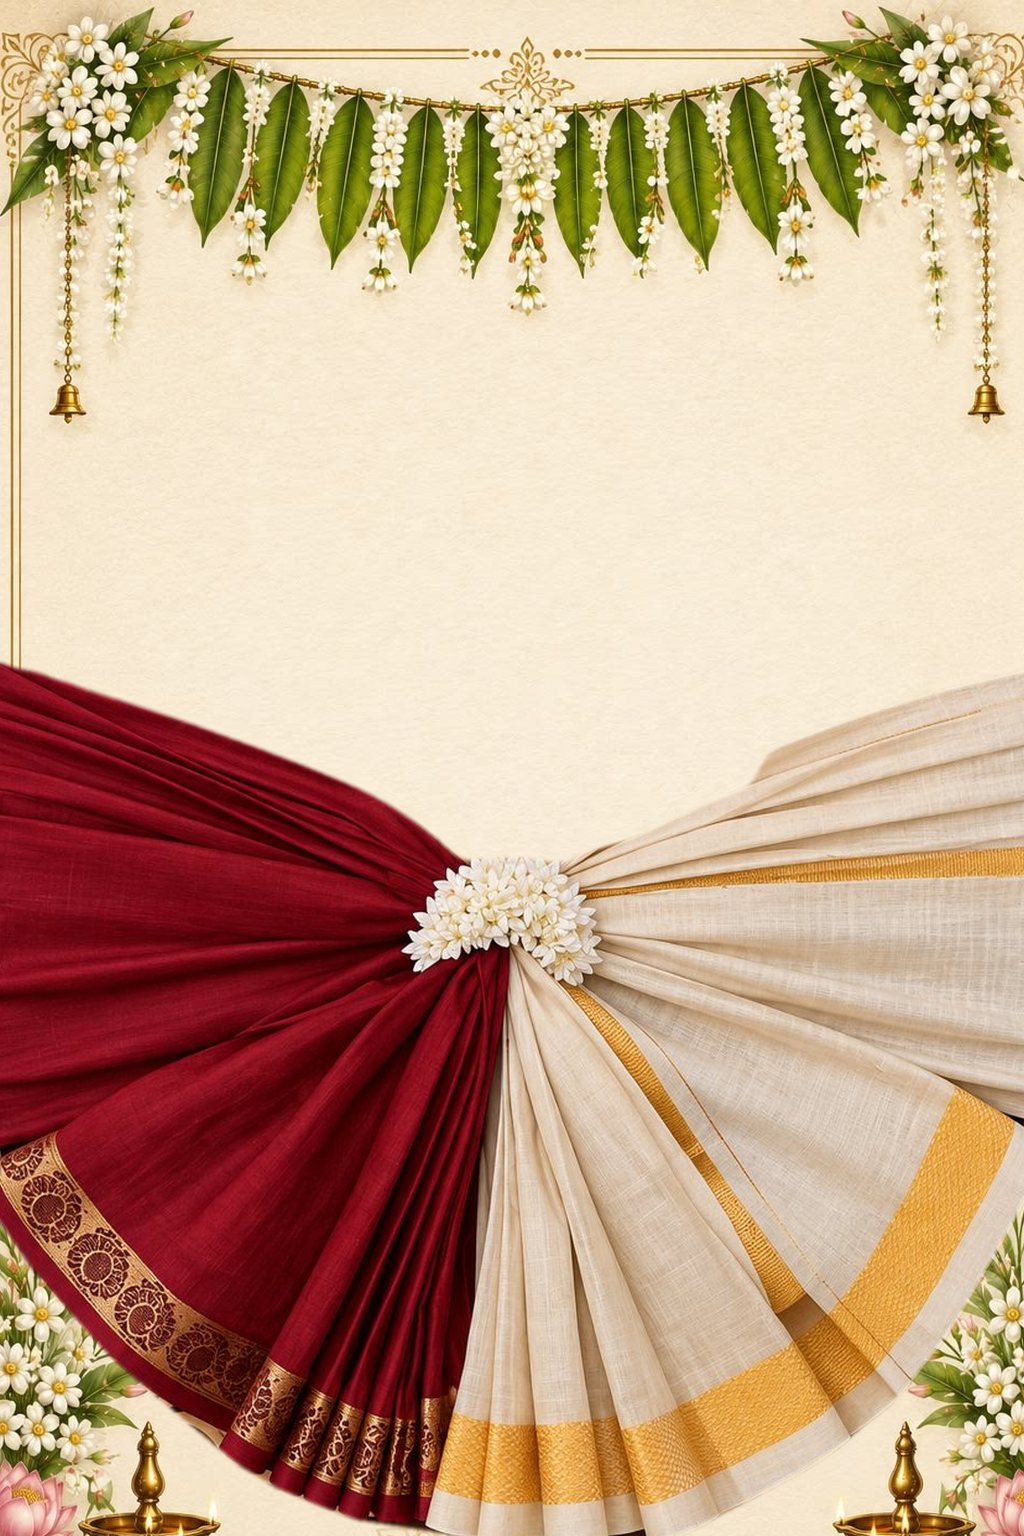
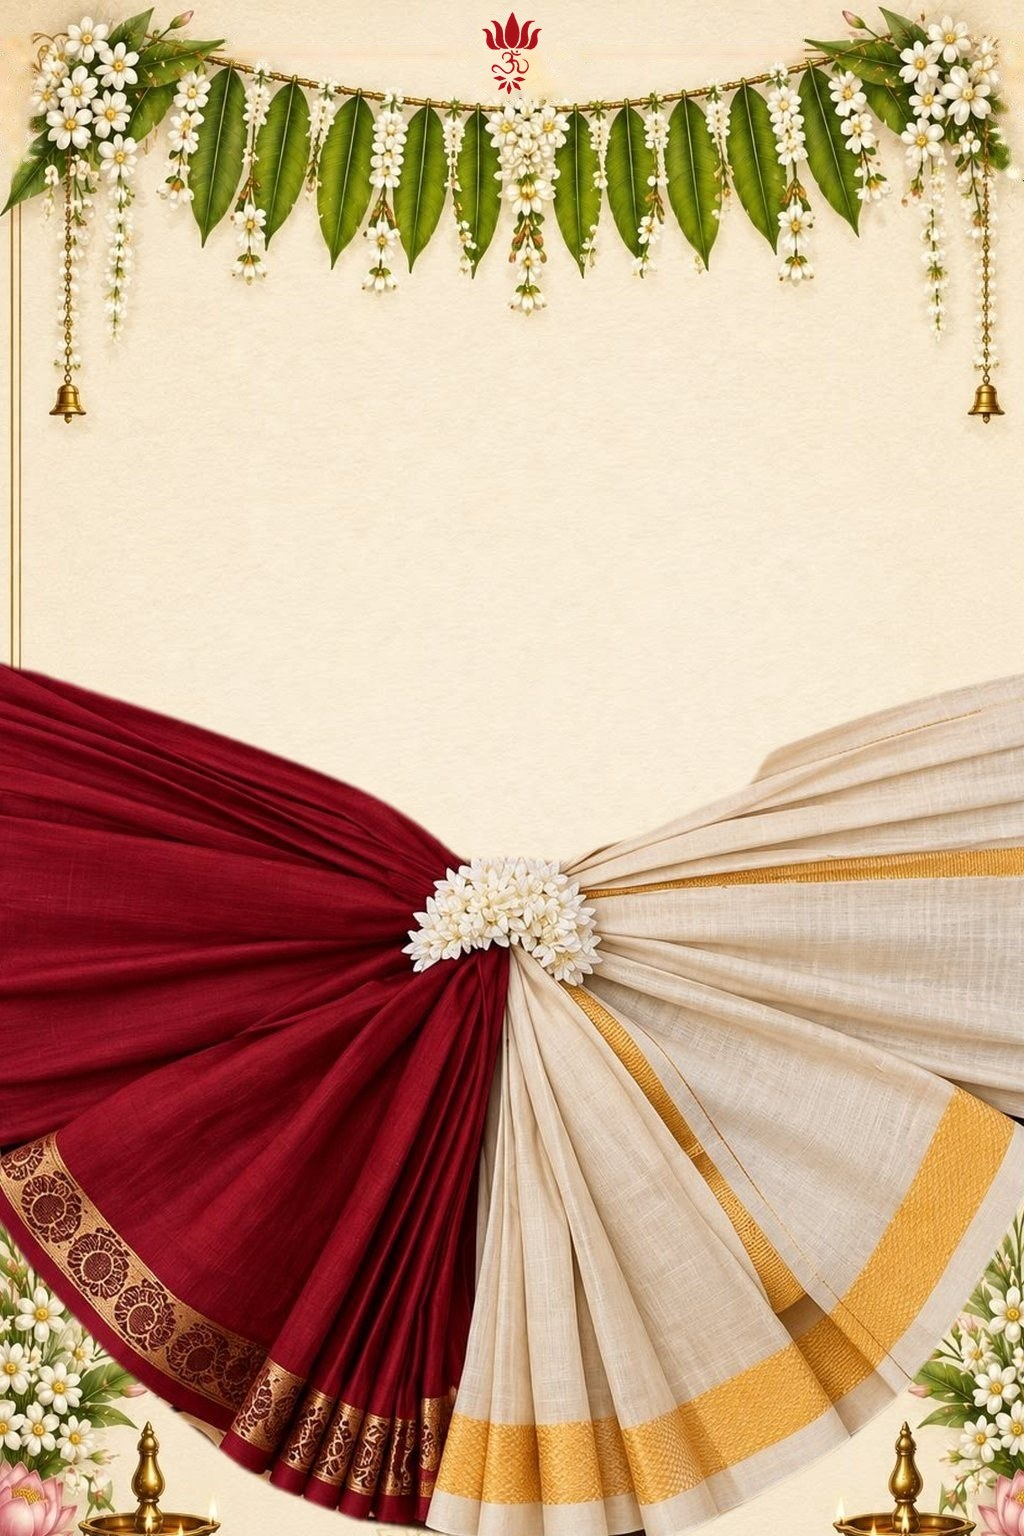
Cleaner thoranam with Om on the opening gate; RSVP note, Nov 15 deadline and Update RSVP wording

Changed region(s): [[0.2188, 0.0, 0.7812, 0.0625], [0.9688, 0.0, 1.0, 0.125], [0.0, 0.0, 0.0312, 0.125]]

diff --git a/src/i18n.ts b/src/i18n.ts
@@ -17,9 +17,8 @@ export const T = {
   yourName: { en: 'Your name', te: 'మీ పేరు' },
   yourEmail: { en: 'Email (optional)', te: 'ఈమెయిల్ (ఐచ్ఛికం)' },
   yourPhone: { en: 'Phone (optional)', te: 'ఫోన్ (ఐచ్ఛికం)' },
-  noteTitle: { en: 'Love Notes, Roast Notes, or Life Notes? 💌', te: 'ప్రేమ, ఆటపట్టింపు, జీవిత సలహా? 💌' },
-  noteSub: { en: "We'll happily take all three!", te: 'మూడూ సంతోషంగా స్వీకరిస్తాం!' },
-  yourNote: { en: 'Make us smile, laugh, blush, or all of the above...', te: 'మమ్మల్ని నవ్వించండి, సిగ్గుపడేలా చేయండి, లేదా అన్నీ...' },
+  rsvpBy: { en: 'Kindly RSVP by November 15th.', te: 'దయచేసి నవంబర్ 15లోపు మీ సమాధానం తెలియజేయండి.' },
+  yourNote: { en: 'A little note? (optional)', te: 'చిన్న సందేశం? (ఐచ్ఛికం)' },
   guests: { en: 'Guests', te: 'అతిథులు' },
   yes: { en: 'Count Me In!', te: 'నేను వస్తాను!' },
   no: { en: 'Sending Love!', te: 'ప్రేమతో ఆశీస్సులు!' },
@@ -34,8 +33,8 @@ export const T = {
   rsvpLanded: { en: 'Your RSVP has officially landed in the #NaGuddu inbox!', te: 'మీ సమాధానం #NaGuddu ఇన్బాక్స్కు చేరింది!' },
   rsvpEmailed: { en: 'A confirmation is on its way to your email. 📬', te: 'నిర్ధారణ మీ ఈమెయిల్కు వస్తోంది. 📬' },
   rsvpFail: { en: "Sorry, your reply didn't go through. Please check your connection and try again.", te: 'క్షమించండి, మీ సమాధానం పంపలేకపోయాం. ఇంటర్నెట్ చూసుకుని మళ్లీ ప్రయత్నించండి.' },
-  rsvpChange: { en: 'Oops, Change My RSVP!', te: 'అయ్యో, నా సమాధానం మార్చాలి!' },
-  rsvpChangeNote: { en: "Plot twist? Just send us a new RSVP and we'll go with your latest answer!", te: 'మనసు మారిందా? కొత్త సమాధానం పంపండి, మీ తాజా సమాధానాన్నే తీసుకుంటాం!' },
+  rsvpChange: { en: 'Update RSVP', te: 'సమాధానం మార్చండి' },
+  rsvpChangeNote: { en: 'Plans changed? No worries! You can always update your response.', te: 'ప్లాన్ మారిందా? పర్వాలేదు! మీ సమాధానాన్ని ఎప్పుడైనా మార్చుకోవచ్చు.' },
   rsvpNoteLive: { en: 'Your reply goes privately to the couple.', te: 'మీ సమాధానం వధూవరులకు మాత్రమే చేరుతుంది.' },
   rsvpNote: { en: 'Preview only: this form is not connected yet. The plan is for replies to go to a private Google Sheet that only the couple can see.', te: 'ఇది నమూనా మాత్రమే: ఫారమ్ ఇంకా అనుసంధానం కాలేదు. సమాధానాలు వధూవరులకు మాత్రమే కనిపించే ప్రైవేట్ షీట్కు వెళ్లేలా చేయాలన్నది ప్రణాళిక.' },
   photosTitle: { en: 'Our wedding, through your eyes.', te: 'మీ కళ్లతో మా పెళ్లి.' },

diff --git a/src/App.tsx b/src/App.tsx
@@ -456,7 +456,8 @@ export function App() {
                 </li>
               ))}
             </ul>
-            <label className="field rsvp-note"><span className="rsvp-note-title">{t('noteTitle')}</span><span className="rsvp-note-sub">{t('noteSub')}</span><textarea name="note" rows={2} maxLength={500} placeholder={t('yourNote')} value={contact.note} onChange={(e) => setContact((c) => ({ ...c, note: e.target.value }))} /></label>
+            <label className="field rsvp-note"><span className="sr-only">{t('yourNote')}</span><textarea name="note" rows={2} maxLength={500} placeholder={t('yourNote')} value={contact.note} onChange={(e) => setContact((c) => ({ ...c, note: e.target.value }))} /></label>
+            <p className="rsvp-by">{t('rsvpBy')}</p>
             <p className={'rsvp-msg' + (status === 'error' || status === 'needName' || status === 'needEvent' ? ' bad' : '')} role="status" aria-live="polite">
               {status === 'needName' ? t('needName') : status === 'needEvent' ? t('needEvent') : status === 'error' ? t('rsvpFail') : status === 'preview' ? '✓ ' + (lang === 'en' ? 'Nothing was sent. This is a preview.' : 'ఏమీ పంపబడలేదు. ఇది నమూనా మాత్రమే.') : ''}
             </p>

diff --git a/src/style.css b/src/style.css
@@ -1630,3 +1630,6 @@ section.cocktail-twirl-page .cocktail-map { margin-top: 10px; }
   .itin-deco-cl { left: 14px; width: auto; height: 22%; } .itin-deco-cr { right: 14px; width: auto; height: 20%; }
   .itin-body { padding-top: 78px; }
 }
+
+/* RSVP: note box with just its placeholder, and the reply-by date under it. */
+.rsvp-compact .rsvp-by { margin: 6px 0 2px; text-align: center; font: italic 600 clamp(12px, 3.4vw, 14px)/1.3 var(--font-body, Georgia, serif); color: var(--gold); }
